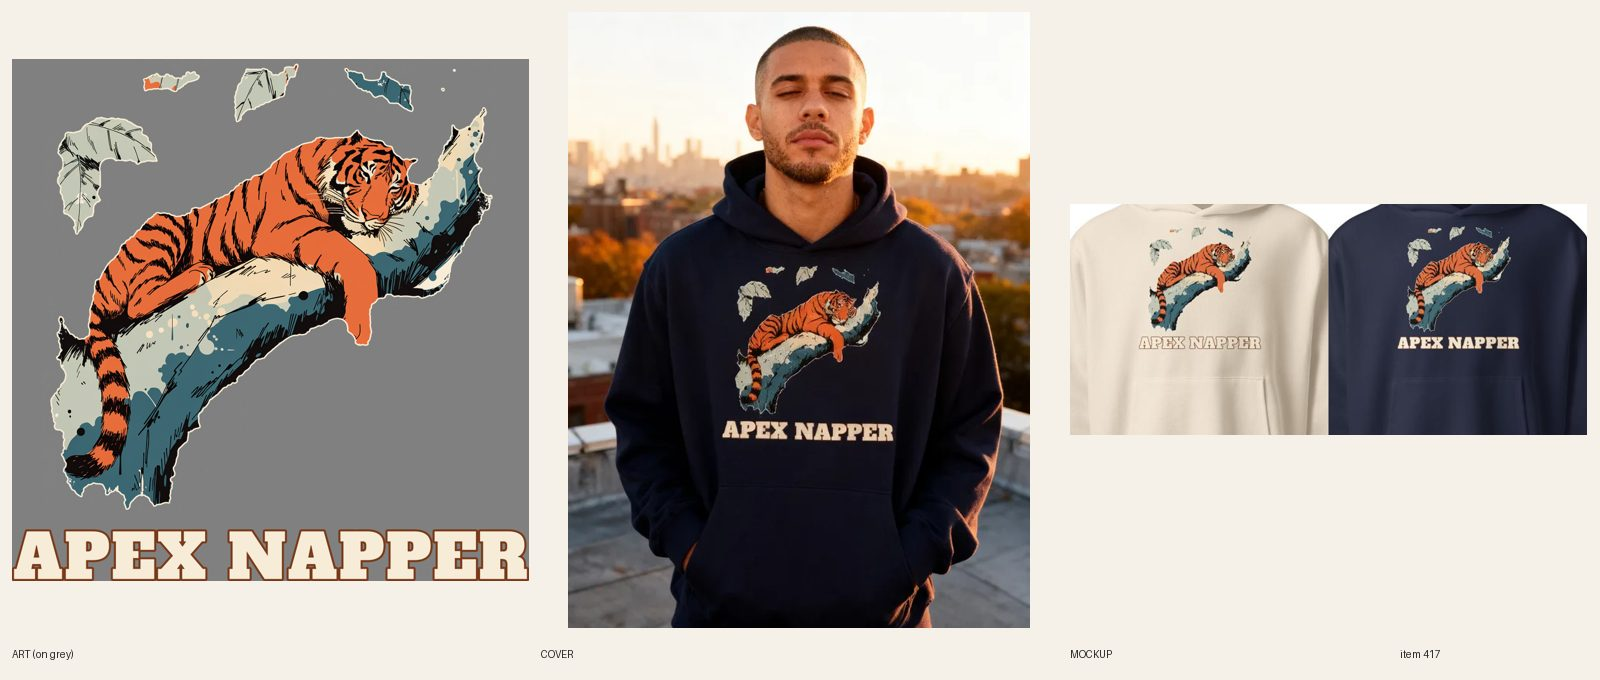
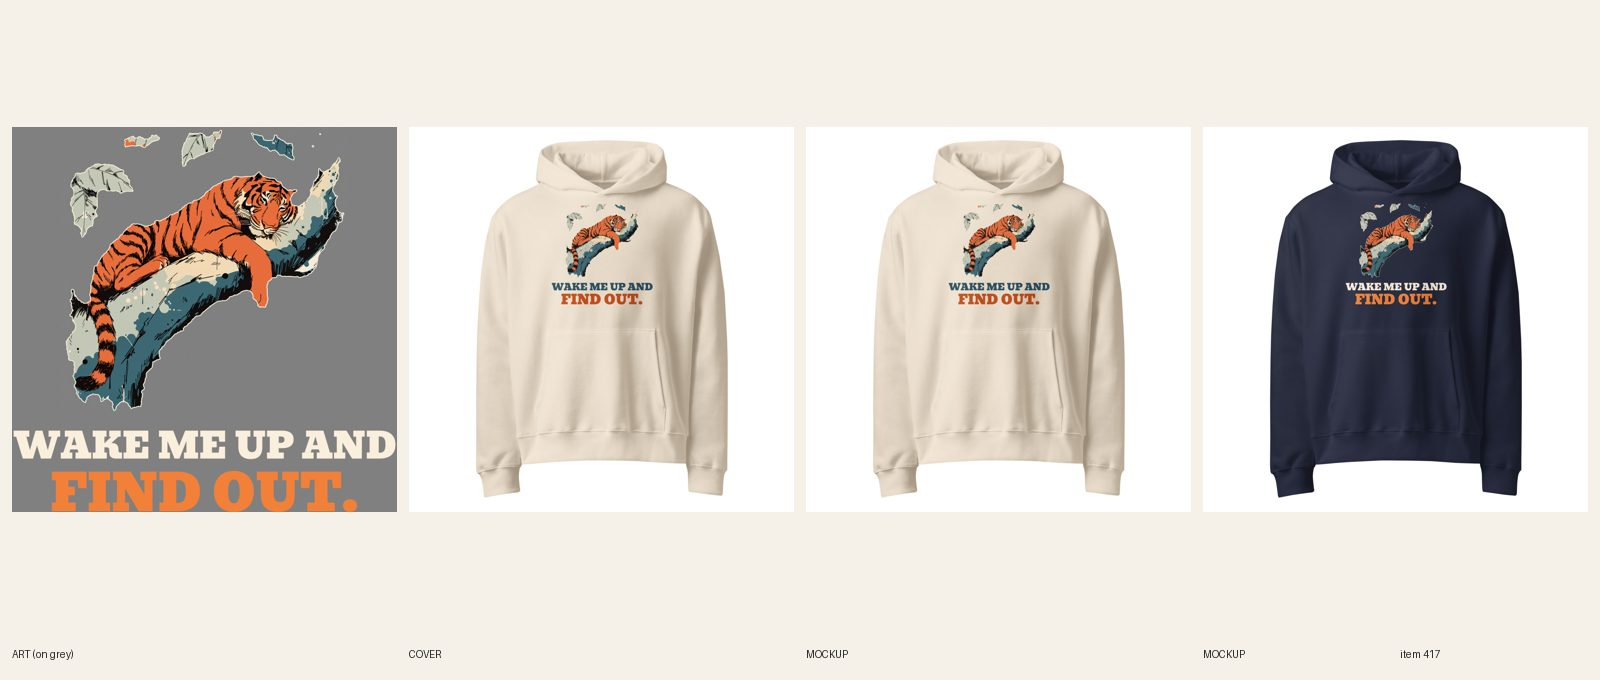
[A] review 417 (redo)
Claude-Session: https://claude.ai/code/session_01LaaEYpKaSBZd9opL7Tpo7i

diff --git a/docs/pipeline/417-tiger-oversized-hoodie-apex-napper.md b/docs/pipeline/417-tiger-oversized-hoodie-apex-napper.md
@@ -1,4 +1,4 @@
-status: BUILDING [A] 2026-10-20 08:32 UTC
+status: REVIEW
 lane: A
 type: new
 id: 417
@@ -30,3 +30,4 @@ kd: 32
 - 2026-10-17 22:41 UTC builder [A]: Printful resync verified (12/12 variants on the new file); REVIEW.
 - 2026-10-17 22:49 UTC director: APPROVED, LIVE. ACTIVE + Online Store, Headless and Google & YouTube; audit --admin-json PASS (0 warn) after an R8 copy polish (repeated product names and superlatives trimmed).
 - 2026-10-18 17:22 UTC director: QUALITY RESET grade C (new line + type), REDO. The product stays ACTIVE (same handle, URL, title keyword). 1. Line (R3.12, quality-reset 'Lines'): "APEX NAPPER": Groan pun on apex predator; just describes a napping tiger. Write 5 candidates, keep the one a stranger laughs at in 3 seconds without backstory; kill lines that only describe the picture; if none of the 5 is funny, PARK it. 2. Quality reset type bar (docs/backlog/quality-reset.md, 'The new bar'): headline at least 90% of the art width, heavy, colors pulled from the art; second line at least 45% of the headline's height, never a thin script on a dark or mid garment; use the lettering as a shape (arch, stacked lockup, words breaking into the art), not a plain bar above and a script line below; no font used on more than 1 in 6 of the last 30 designs. 3. Keep the art if it carries the new line, else one new illustration (R4/R5). New print means a new cover per R6.10, copy line one rewritten for the new joke (R8.3), and a fresh review sheet (R7.7). While quality-reset.md says PAUSED, only lane A builds, and only the samples step 2 names.
+- 2026-10-20 08:40 UTC builder [A]: REDO grade C done (new line + type). Line: WAKE ME UP AND / FIND OUT. (5 candidates; the sleeping predator warning kept; title and handle unchanged). Same sleeping tiger art (old caption cropped off, 3300x2960), Bevan both lines (3274 / 2617 px, punchline bigger), teal + orange from the art, lockup 3300x3300, FW 1500 TOP 0 (oversized hoodie, pocket clear). Light-file split: Dust on 1090259057 (teal headline, orange punchline), Navy on 1090259076 (cream headline, orange punchline). Back logo 1080398177 kept. Relinked 12/12 verified. 2 fronts replaced in place (fileUpdate), phone-size read ok on both. Copy: Story line one, art sentence (ink named per color), FAQ 1 updated; SEO title/meta updated; 5 FAQs, Dec 8 kept; no R8.3 opener. Cover: handle added to retired-covers.json (plain product shot). fal $0. audit --handle PASS; astro build ok.

diff --git a/docs/intake-log.md b/docs/intake-log.md
@@ -1,5 +1,6 @@
 2026-10-20 08:47 UTC — [D] Director run: inbox nothing new. 6 LIVE (cap): #443 #552 #554 #561 #635 #382, audit PASS (#554 #561 SEO titles added). Reviewed 16: 12 approved and held (#387 #389 retitled), 4 REDO (#397 stock line, #507 geyser still a rectangle, #509 shield scene, #610 stock Etsy line). Builder card 7j (no more SORRY/BOOKED lines). READY: A 13, B 12, C 12, E 12. No Telegram (digest not due, nothing for Sam). Lock released.
 2026-10-20 08:33 UTC — [E] Builder run: redid #613 Men's Bowling tee (line + type: THE PINS / STARTED IT., same stern-bowler art, Alfa Slab One, cream file on 5 dark colors + dark-ink file on 3 light colors, 56/56 synced). REVIEW. fal $0.
+2026-10-20 08:40 UTC — [A] Builder run: redid #417 Men's Tiger oversized hoodie (line+type: WAKE ME UP AND / FIND OUT., same sleeping tiger art, Bevan full width, FW 1500 TOP 0, Dust file 1090259057 / Navy file 1090259076, 12/12 relinked, 2 fronts replaced in place, copy updated, plain product shot). REVIEW. fal $0.
 2026-10-20 08:32 UTC — [A] Builder run: redid #408 Unisex Shark oversized hoodie (line+type: I'M NOT AGGRESSIVE. / JUST ENTHUSIASTIC., same great white art, Alfa Slab full width, FW 1500 TOP 0, Dust file 1090256703 / Navy file 1090256712, 12/12 relinked, 2 fronts replaced in place, copy updated, plain product shot). REVIEW. fal $0.
 2026-10-20 07:50 UTC — [H] Helper run: Telegram inbox empty (getUpdates returned 0 updates; no pause, resume or TikTok links; nothing to consume). Audit 609 live products: 0 errors, 31 warnings left alone (polish); committed docs/cohesion-audit.md and .json (npm ci first, esbuild was missing). Category check: 0 products without a Shopify category (filtered query empty, no mutation). Announcement bar already on the holiday line, 0 price errors. Site check: womens-christmas-christmas-nurse-crewneck-sweatshirt, womens-thanksgiving-the-turkey-is-fine-graphic-tee, womens-volleyball-i-only-dive-for-snacks-hoodie all 200. Stuck-work check: nothing BUILDING over 3h (5 items claimed or committed in the last hour); lane A's 02:28 lock lines are residue (lane A committed at 07:44). Daily summary not due (before 12:00 UTC). Cleared the helper's stale 05:44 lock line. Lock released.
 2026-10-20 08:33 UTC — [E] Builder run: redid #611 Women's Tennis crewneck (line + type: GAME. SET. / LEMONADE., same lemonade-friends art, Bowlby One, Navy + Sand files, 12/12 synced). REVIEW. fal $0.
